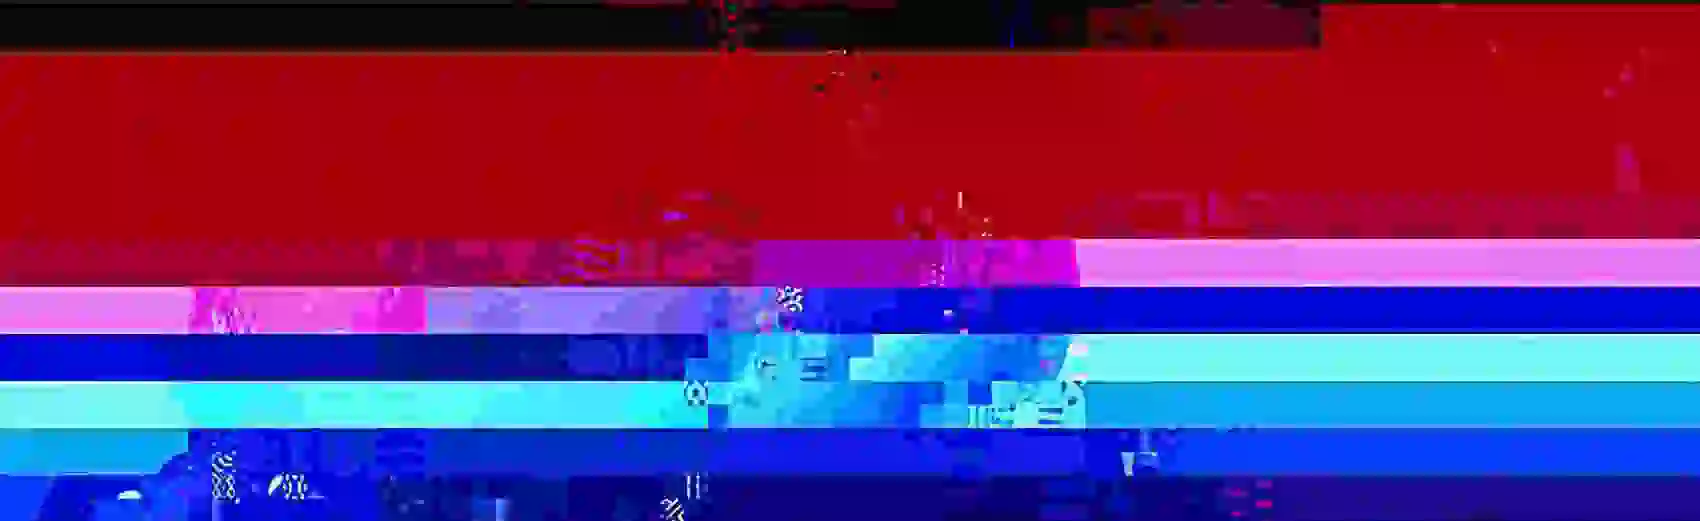
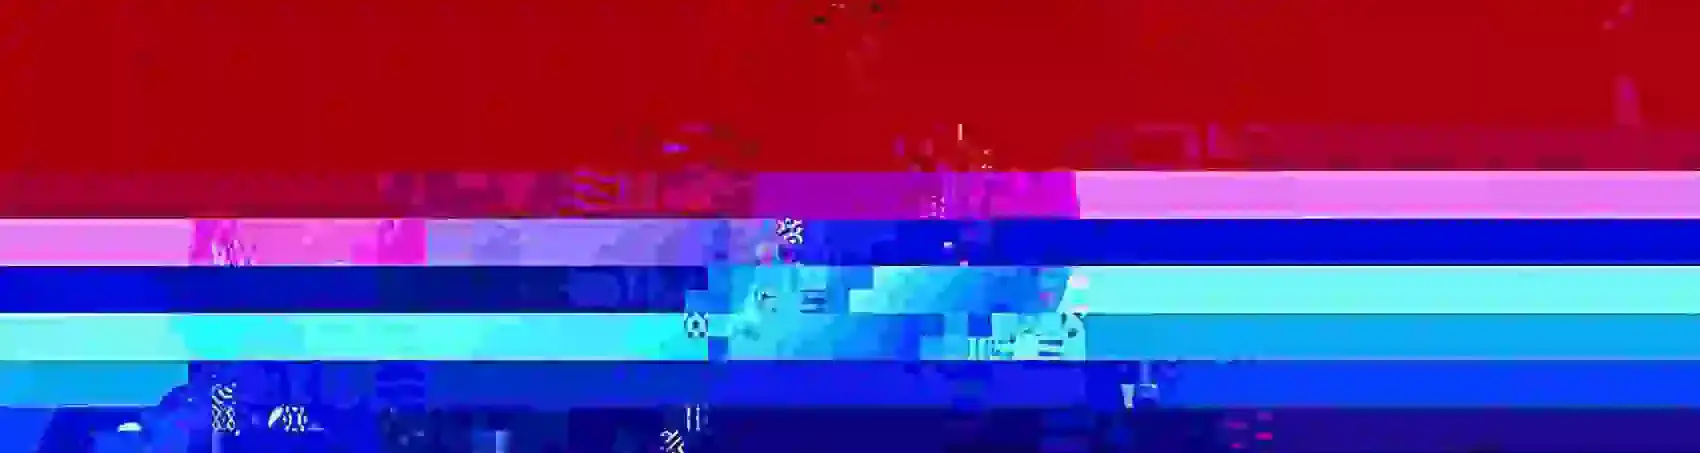
tweaks to images

diff --git a/style.css b/style.css
@@ -8,17 +8,20 @@
     src: url(assets/Bontang-nRGPV.otf);
 }
 
+
+/* Make sure there is no padding before the banner */
 * {
     box-sizing: border-box;
     margin: 0;
-    padding: 0;
 }
 
+/* Set body font and background color */
 body {
     font-family: Rubik, system-ui, sans-serif;
     background-color: #000238;
 }
 
+/* Scale banner based on viewport width */
 #bannerDIV {
     position: relative;
     width: 100%;
@@ -26,6 +29,7 @@ body {
     overflow: hidden;
     font-family: Bontang;
 }
+
 
 #bannerDIV img#bannerBG {
     width: 100%;
@@ -46,9 +50,29 @@ body {
     height: 80%;
 }
 
-#bannerCONTENT img#bannerICON {
+#bannerICON-container {
+    position: relative;
     height: 100%;
     width: auto;
+    display: inline-block;
+}
+
+#bannerICON-container img {
+    height: 100%;
+    width: auto;
+    display: block;
+}
+
+#bannerICON-container .static {
+    position: absolute;
+    top: 0;
+    left: 0;
+    background: white;
+    transition: opacity 0.2s ease;
+}
+
+#bannerICON-container:hover .static {
+    opacity: 0;
 }
 
 #bannerCONTENT div#bannerTEXT {
@@ -66,7 +90,7 @@ body {
     right: 5%;
     transform: translateY(-50%);
     display: flex;
-    gap: clamp(40px, 4vw, 60px);
+    gap: clamp(10px, 4vw, 60px);
     align-items: center;
 }
 
@@ -271,39 +295,13 @@ code {
 
 .link-card-minor {
     opacity: 0.7;
-    font-size: clamp(14px, 1.8vw, 16px);
 }
 
 .contact-list {
-    list-style: none;
     padding-left: 0;
     font-size: clamp(16px, 2vw, 18px);
 }
 
 .contact-list li {
     margin-bottom: 15px;
-    color: #d0d0d0;
-}
-
-.contact-list a {
-    color: #6b9fff;
-}
-
-@media (max-width: 768px) {
-    main {
-        padding: 20px 15px;
-    }
-
-    .content-section {
-        margin-bottom: 40px;
-    }
-
-    .project-card {
-        padding: 20px;
-    }
-
-    .FMLA-grid {
-        grid-template-columns: repeat(auto-fit, minmax(120px, 1fr));
-        gap: 10px;
-    }
 }

diff --git a/index.html b/index.html
@@ -7,6 +7,7 @@
     <title>MagicJinn</title>
     <link rel="preload" as="image" href="assets/yoshlowqual.webp">
     <link rel="preload" as="image" href="assets/catglitch.webp">
+    <!-- No catflip preload because it only loads on hover, giving it enough time -->
     <link rel="stylesheet" href="style.css">
     <script src="script.js"> </script>
     <link rel="icon" type="image/x-icon" href="assets/favicon.ico">
@@ -14,9 +15,12 @@
 
 <body>
     <div id="bannerDIV">
-        <img id="bannerBG" src="assets/yoshsharpen.jpg">
+        <img id="bannerBG" src="assets/yoshlowqual.webp">
         <div id="bannerCONTENT">
-            <img id="bannerICON" src="assets/catglitch.webp">
+            <div id="bannerICON-container">
+                <img class="active" id="bannerICON-active" src="assets/catflip.webp">
+                <img class="static" id="bannerICON" src="assets/catglitch.webp">
+            </div>
             <div id="bannerTEXT">MagicJinn</div>
         </div>
         <nav class="banner-nav">
@@ -155,7 +159,7 @@
         <section id="contact" class="content-section">
             <h2>Contact</h2>
             <ul class="contact-list">
-                <li>Email: <a href="mailto:MagicJinn@mail.com">MagicJinn@mail.com</a></li>
+                <li>Email: <a href="mailto:MagicJinn@MagicJinn.net">MagicJinn@MagicJinn.net</a></li>
                 <li>Discord: @MagicJinn</li>
             </ul>
         </section>

diff --git a/README.md b/README.md
@@ -101,5 +101,5 @@ I have both Patreon, and a Ko-fi. Ko-fi lends itself more to one-time donations,
 
 ## Contact
 
-- Email: [MagicJinn@mail.com](mailto:MagicJinn@mail.com)
+- Email: [MagicJinn@MagicJinn.net](mailto:MagicJinn@MagicJinn.net)
 - Discord: @MagicJinn
